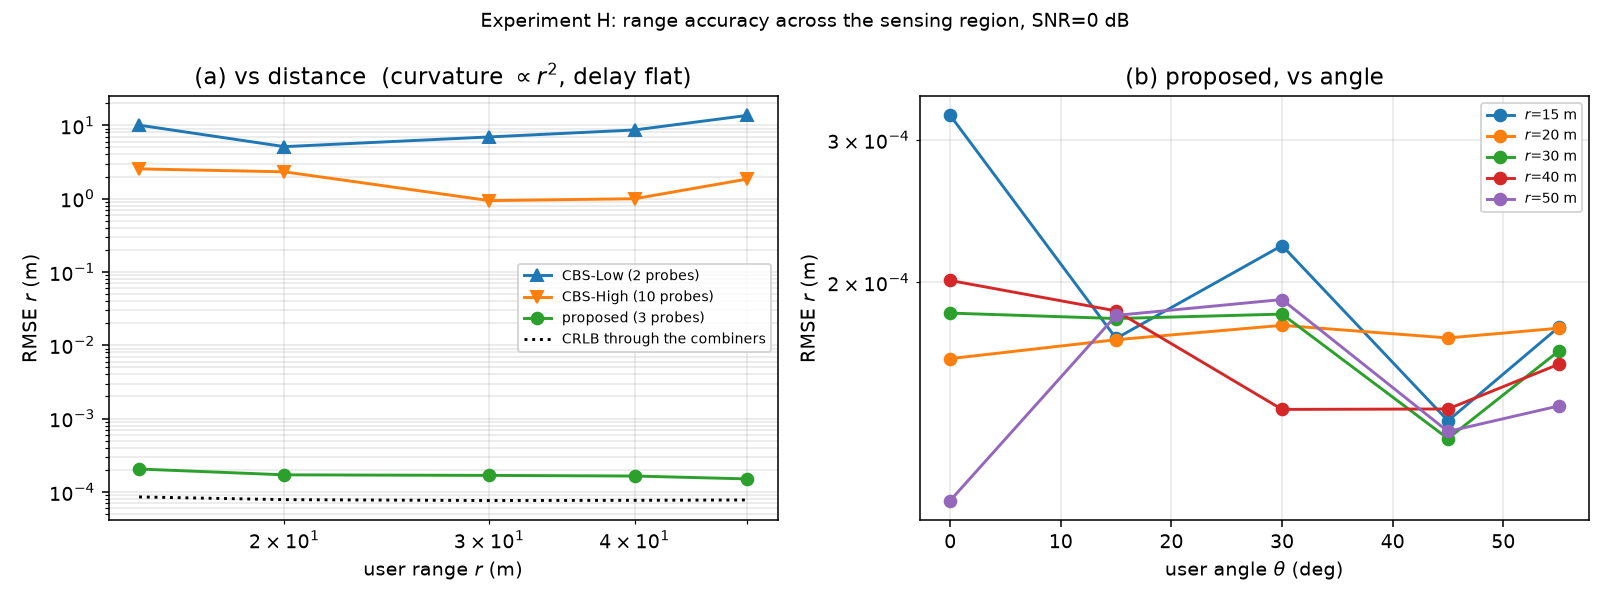
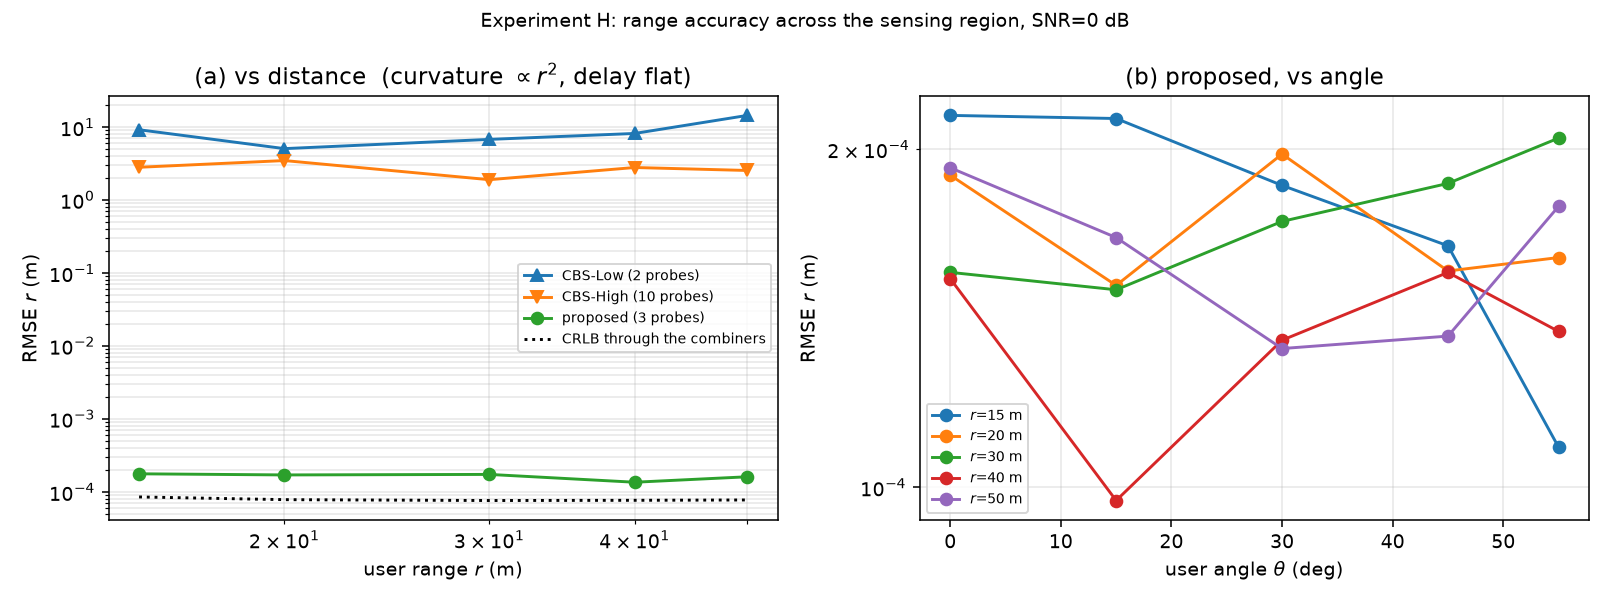
Stop the baseline search grid from manufacturing a perfect score
CBS-High's range grid ended exactly at r_min, so a search that pinned to the
lower edge scored zero error for a user at 15 m. It pinned there 8 times out of
8 at one position, which the sweep recorded as flawless rather than as the
failure it was. The grid now extends past the sensing region on both sides so
edge-pinning shows up as error.

Rerunning leaves the proposed result unchanged and flat across the region and
raises CBS-High's average at 15 m from an artifact to 2.8 m.

Claude-Session: https://claude.ai/code/session_01CiXyGmn6RkSvF3hrJKPw63

diff --git a/sim/baselines.py b/sim/baselines.py
@@ -99,7 +99,11 @@ def cbs_high(cfg, r_k, th_k, snr_db, rng, P=10, stagger_deg=30.0, n_grid=1500):
     th_hat = float(np.mean(ths))                                  # Eq. (26)
 
     # Eq. (27): pick r maximising |sum_p exp(j[phi_measured - phi_predicted(r)])|
-    grid = np.linspace(cfg.r_min, cfg.r_max, n_grid)
+    # Search beyond the sensing region: with the grid ending exactly at r_min, a
+    # search that pins to the lower edge scores ZERO error for a user at r_min,
+    # turning a failure into an apparently perfect result.  The margin makes
+    # edge-pinning visible as the error it is.
+    grid = np.linspace(cfg.r_min - 5.0, cfg.r_max + 10.0, n_grid)
     score = np.zeros(n_grid)
     acc = np.zeros(n_grid, dtype=complex)
     for p in range(P):
